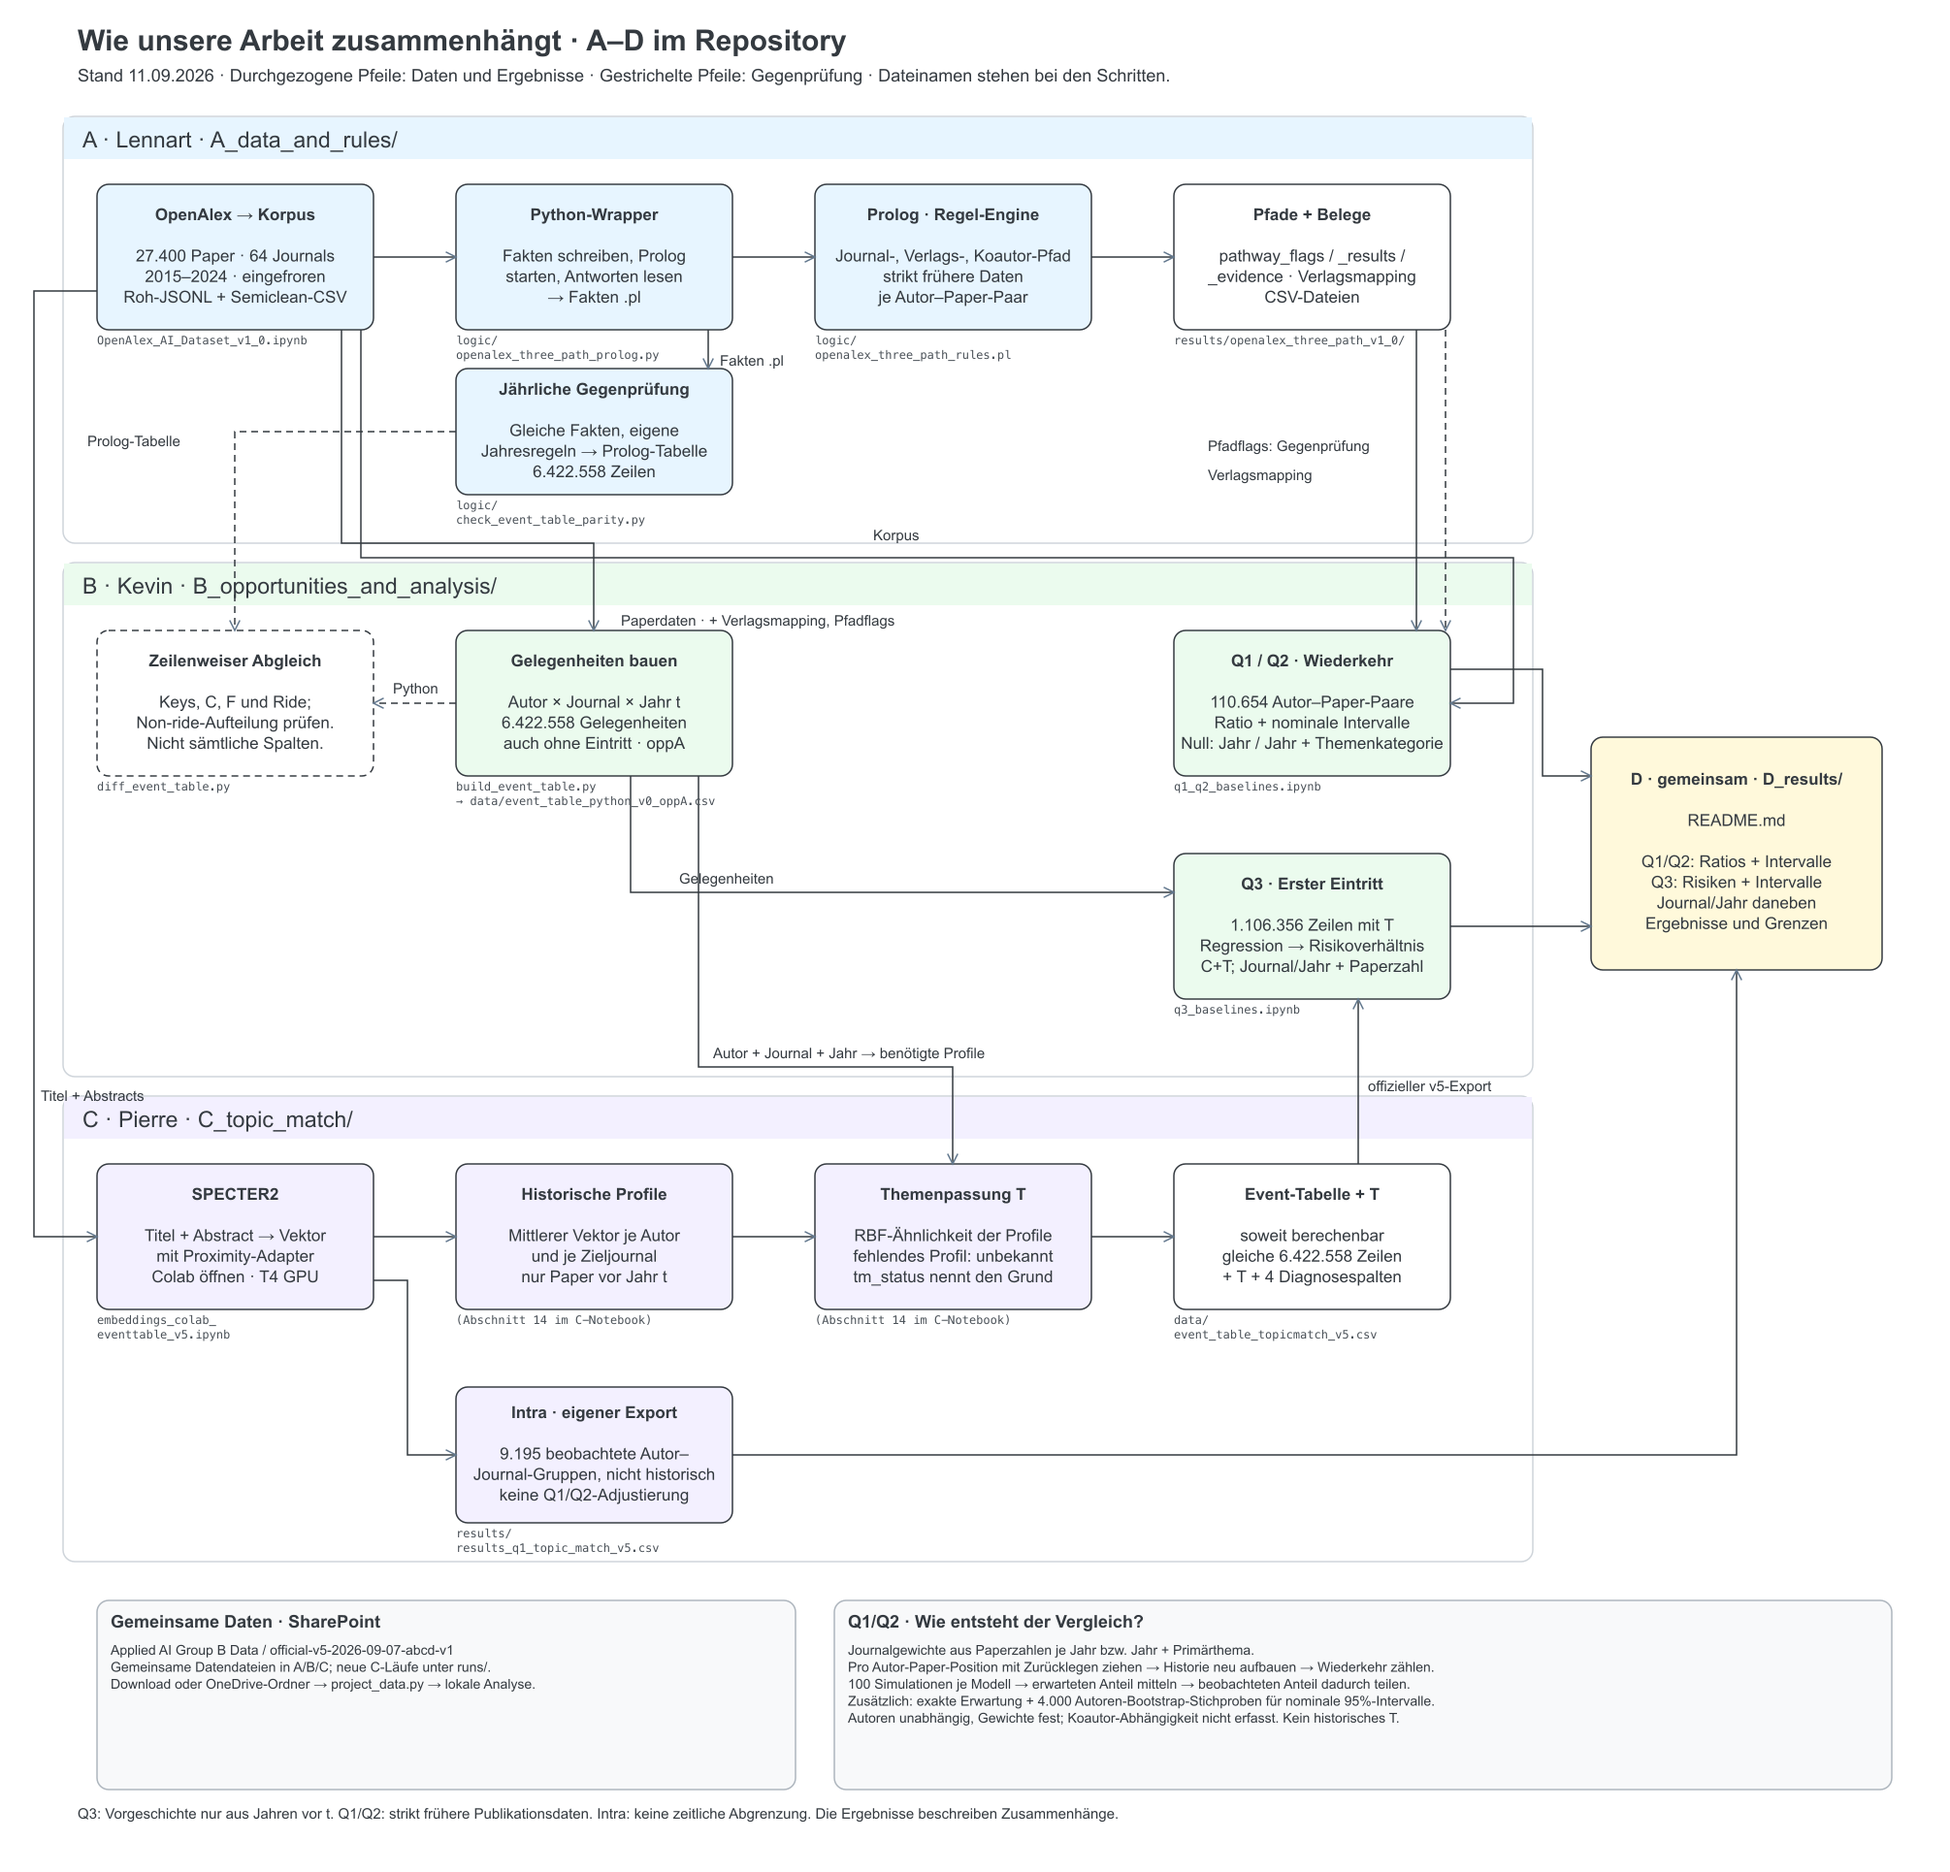
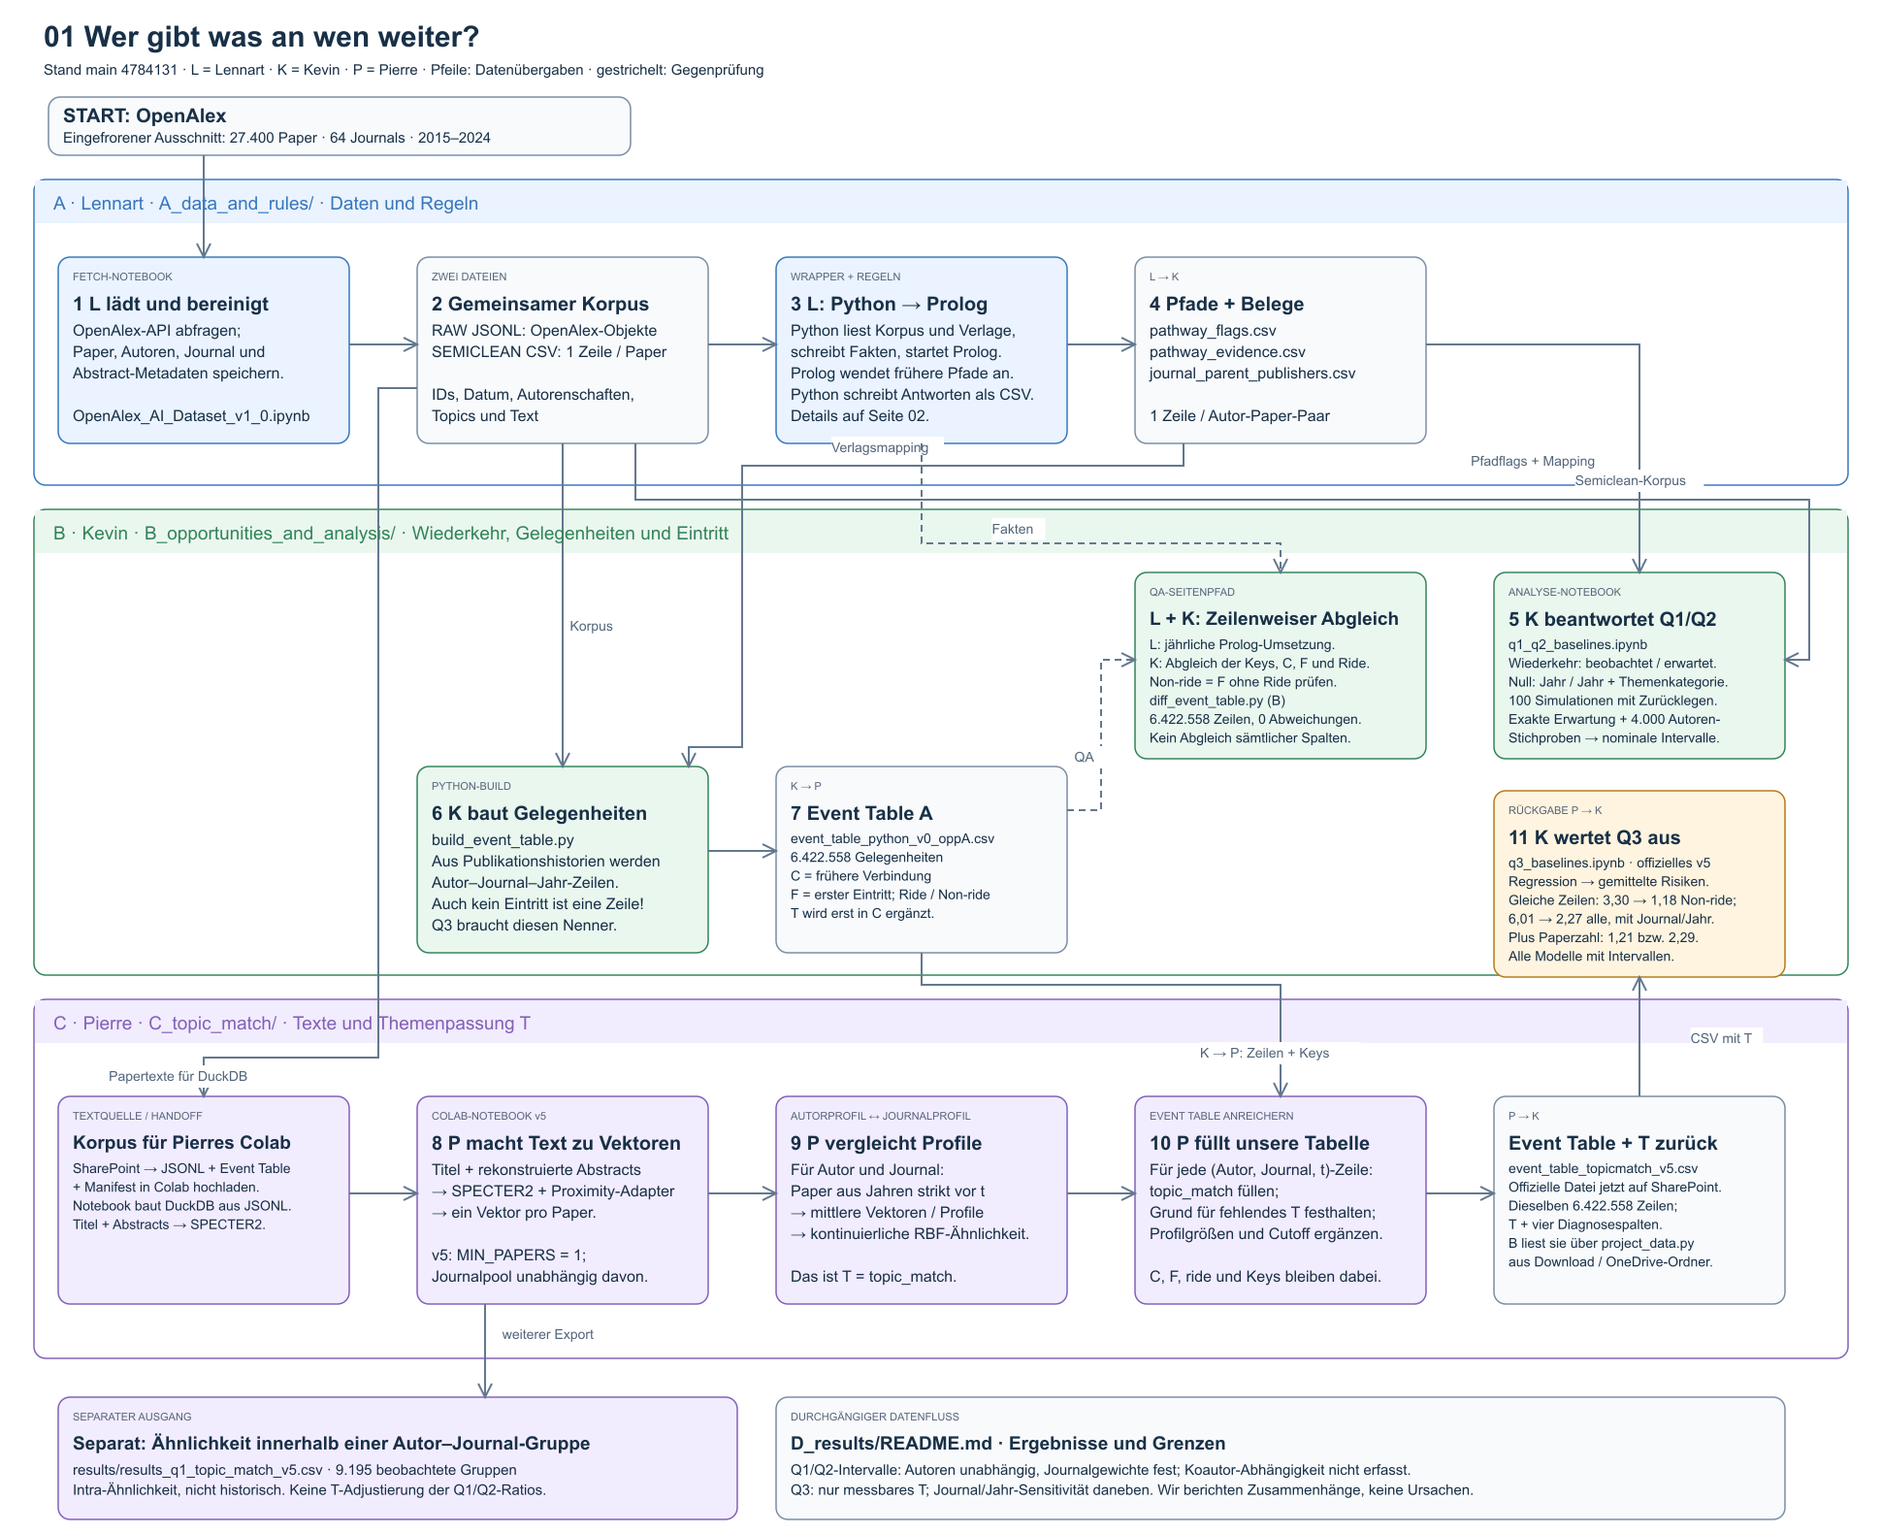
Use the handoff overview in the README

diff --git a/README.md b/README.md
@@ -90,4 +90,4 @@ The commands above use the official release. New Colab runs stay separate so we 
 
 ## How the parts connect
 
-![Data flow between A, B, C and D](D_results/project-flow.png)
+[![Wer gibt was an wen weiter?](D_results/project-flow.png)](D_results/project-flow.svg)
